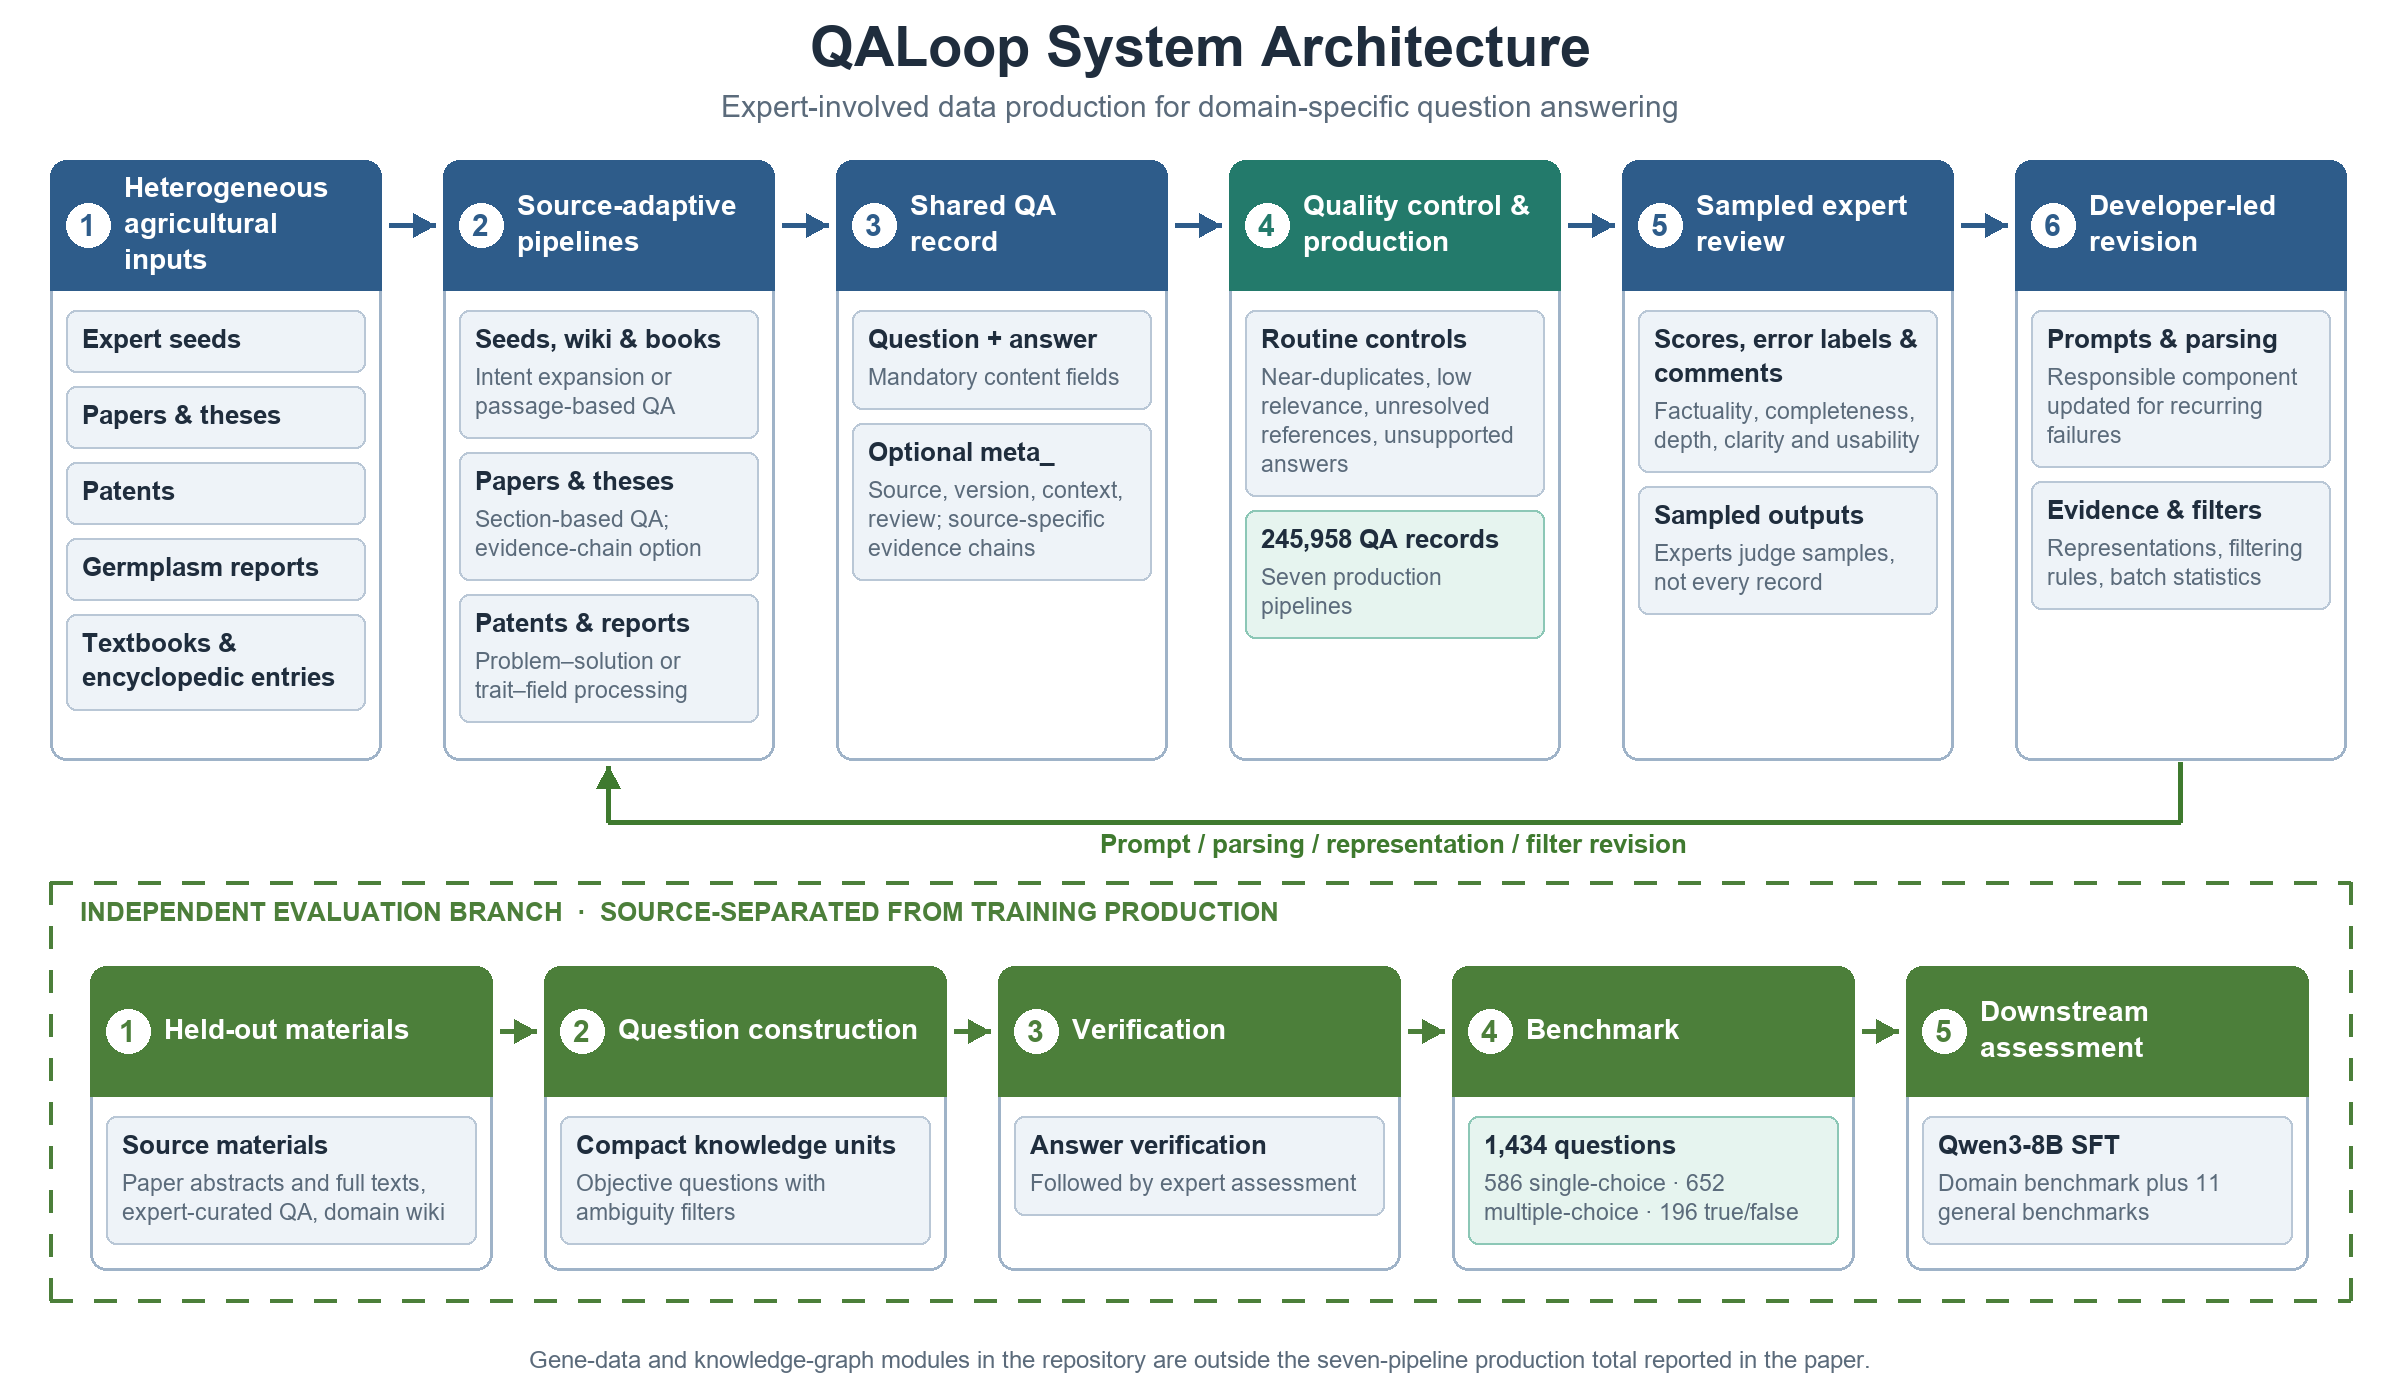
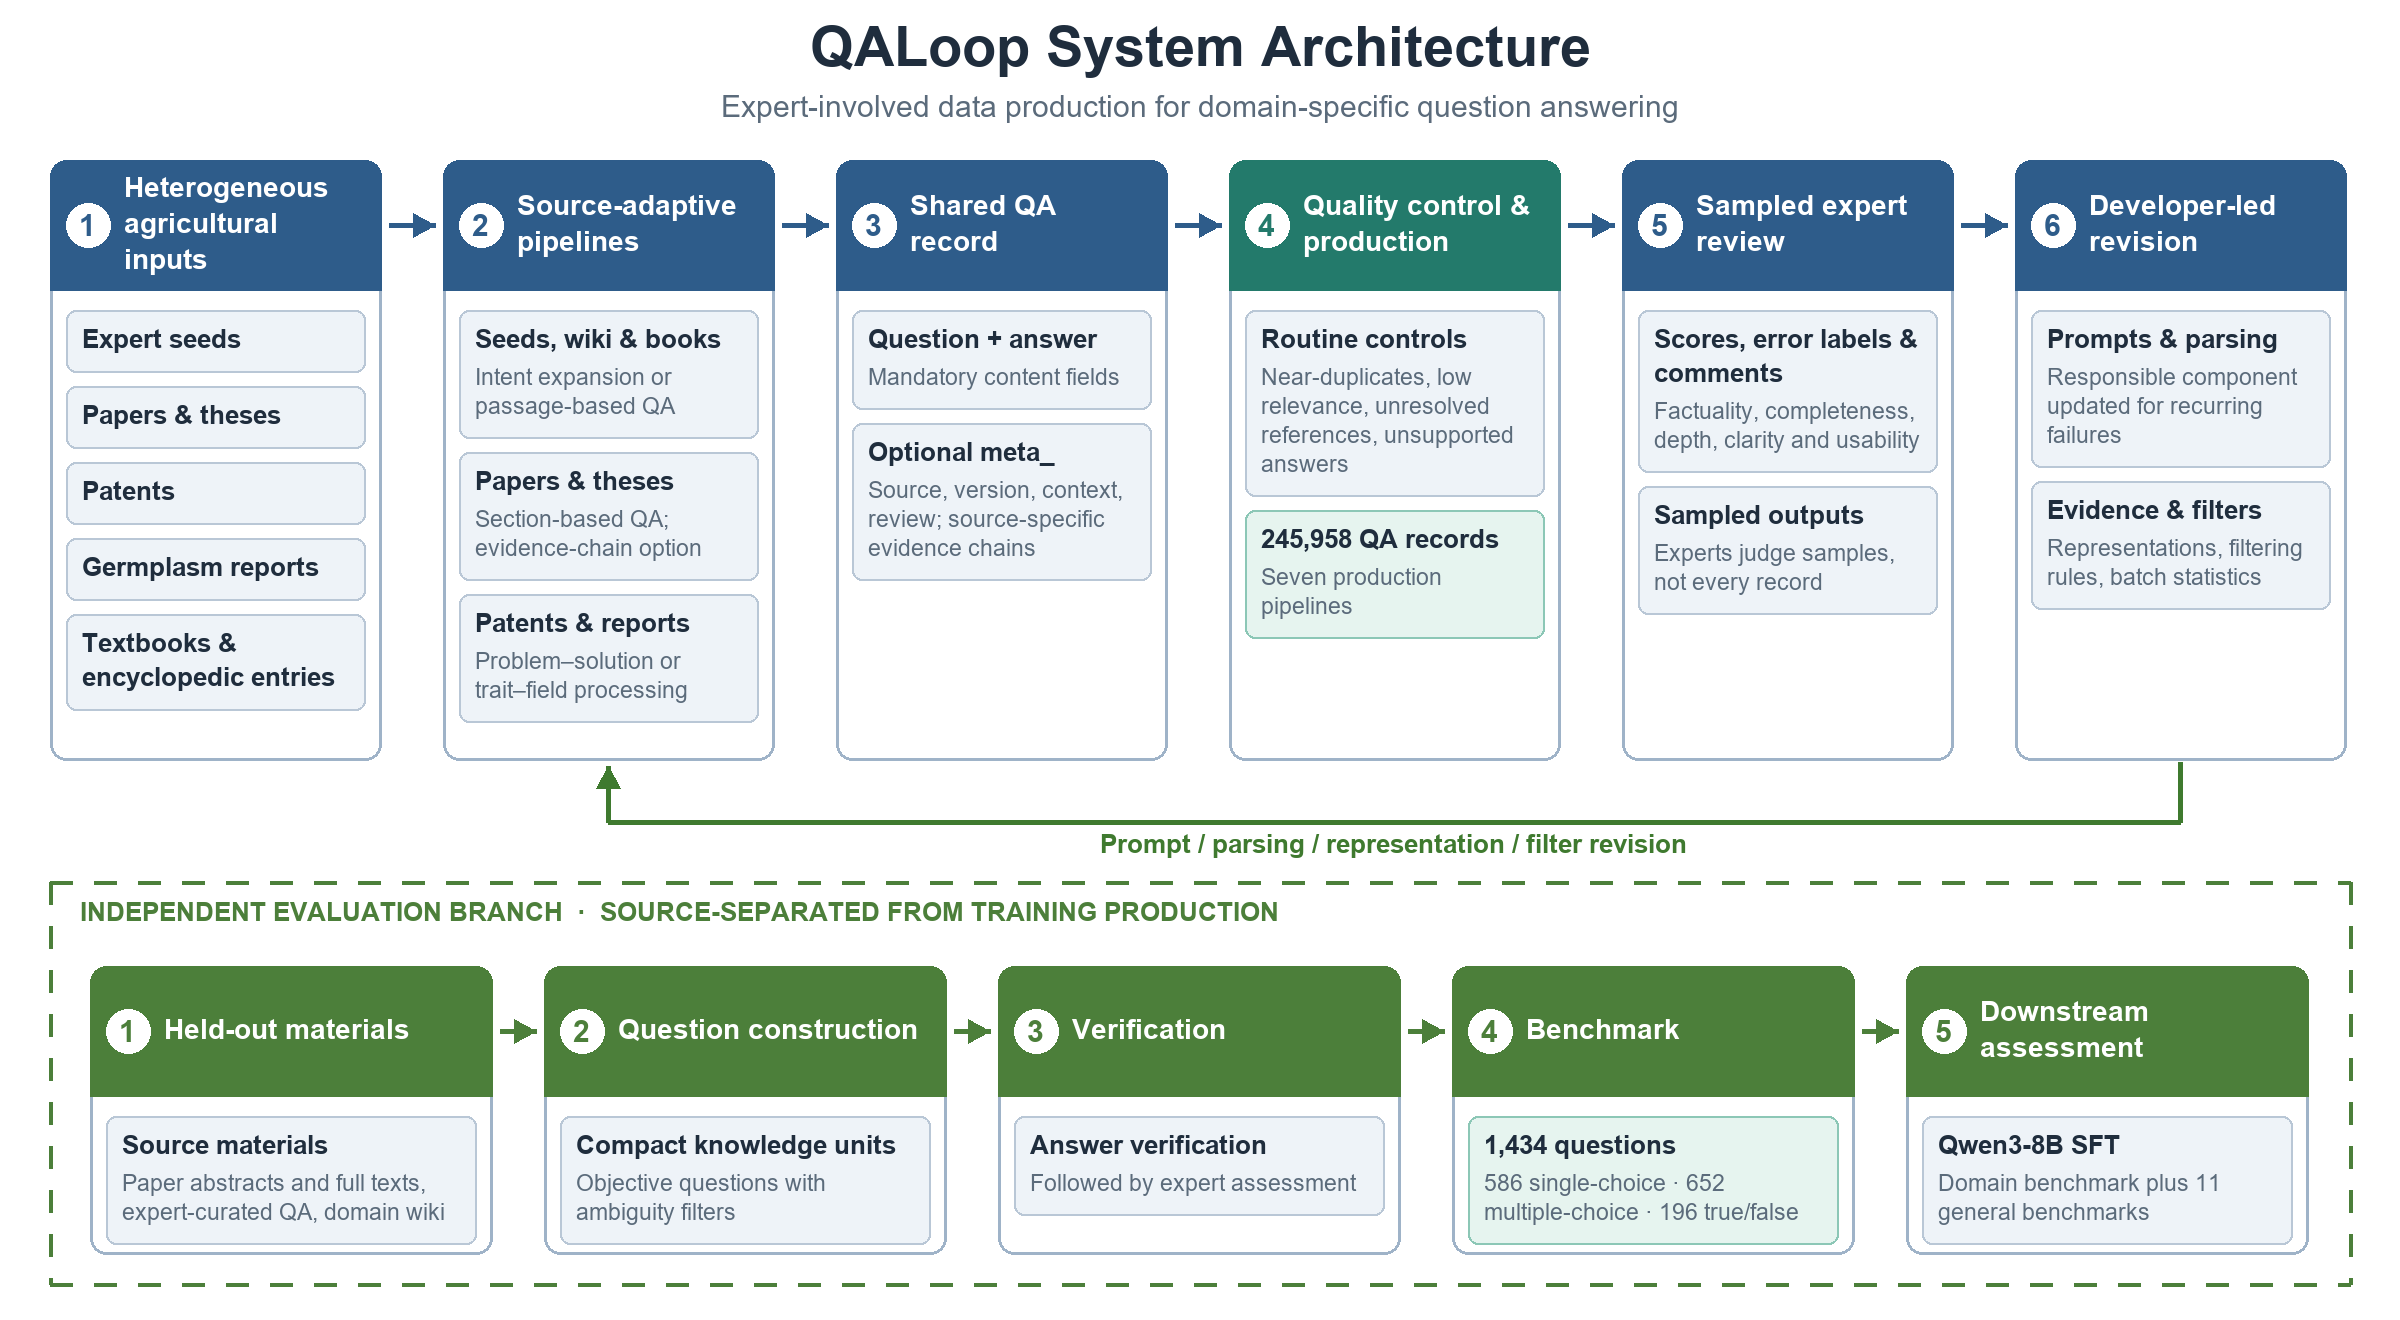
Align the README pipeline list with the seven production pipelines in the paper.

Changed region(s): [[0.0312, 0.0311, 0.9688, 0.9939], [0.0, 0.0932, 0.1562, 0.5591], [0.8125, 0.0932, 0.9688, 0.4659]]

diff --git a/pipelines/README.md b/pipelines/README.md
@@ -1,6 +1,6 @@
 # Agricultural Knowledge QA Pair Generation System
 
-Source-adaptive QA synthesis pipelines in [QALoop](https://github.com/JackKuo666/QALoop), the code release for the DASFAA 2027 Industry Track submission on expert-involved domain QA data production. This directory contains independent pipelines that generate question-answer (QA) pairs from heterogeneous agricultural sources (papers, patents, books, knowledge graphs, Wikipedia, germplasm reports, gene records, expert questions, and others) for LLM SFT training. The submitted paper reports seven production pipelines; the gene-data and knowledge-graph pipelines here are outside that total.
+Source-adaptive QA synthesis pipelines in [QALoop](https://github.com/JackKuo666/QALoop), the code release for the DASFAA 2027 Industry Track submission on expert-involved domain QA data production. The paper reports seven production pipelines. Expert seeds are implemented here as `expert_qa_augmentation` and `expertq_generatea`. Full-text papers, theses, wiki, books, germplasm reports, and patents correspond to `paper_synthesis`, `thesis_synthesis`, `wiki_synthesis`, `books_qa_generater`, `seedreport_synthesis`, and `patent_synthesis`. `gene_synthesis` and `kg_synthesis` are extensions. `qa_data_acquisition_quality` checks existing QA records and is not a production pipeline.
 
 ---
 
@@ -26,19 +26,19 @@ Source-adaptive QA synthesis pipelines in [QALoop](https://github.com/JackKuo666
 
 ## Quick Overview
 
-| # | Pipeline | Data Source | Key Innovation | Output |
-|---|----------|-------------|----------------|--------|
-| 1 | [expert_qa_augmentation](#1-expert_qa_augmentation) | Seed questions | 20+ generation strategies, intelligent RAG retrieval | JSONL |
-| 2 | [expertq_generatea](#2-expertq_generatea) | Seed questions | 31+ model support, Thinking mode | JSONL |
-| 3 | [gene_synthesis](#3-gene_synthesis) | Gene literature | Evidence anchoring, multi-hop reasoning protocol | JSONL |
-| 4 | [kg_synthesis](#4-kg_synthesis) | Knowledge graph | TopK whitelist, P3 random path fallback | JSON/JSONL |
-| 5 | [paper_synthesis](#5-paper_synthesis) | Academic papers | Two-stage reasoning chain, intelligent ratio control | JSONL |
-| 6 | [patent_synthesis](#6-patent_synthesis) | Patents | Evaluate-feedback-retrieve-generate loop | JSONL |
-| 7 | [thesis_synthesis](#7-thesis_synthesis) | Theses | Multi-format chapter splitting, objective question generation | JSONL |
-| 8 | [wiki_synthesis](#8-wiki_synthesis) | Wikipedia | BioBERT + Qwen two-stage filtering | JSONL |
-| 9 | [books_qa_generater](#9-books_qa_generater) | Books | TOC-aware chapter splitting, hierarchical quality control | JSONL |
-| 10 | [qa_data_acquisition_quality](#10-qa_data_acquisition_quality) | QA data | LLM generative evaluation | JSONL |
-| 11 | [seedreport_synthesis](#11-seedreport_synthesis) | Germplasm reports | 8 user intent categories, zero-anaphora QA | JSONL |
+| # | Pipeline | In the paper | Data Source | Key Innovation | Output |
+|---|----------|-------------|----------------|----------------|--------|
+| 1 | [expert_qa_augmentation](#1-expert_qa_augmentation) | Expert seeds | Seed questions | 20+ generation strategies, intelligent RAG retrieval | JSONL |
+| 2 | [expertq_generatea](#2-expertq_generatea) | Expert seeds | Seed questions | 31+ model support, Thinking mode | JSONL |
+| 3 | [gene_synthesis](#3-gene_synthesis) | Extension | Gene literature | Evidence anchoring, multi-hop reasoning protocol | JSONL |
+| 4 | [kg_synthesis](#4-kg_synthesis) | Extension | Knowledge graph | TopK whitelist, P3 random path fallback | JSON/JSONL |
+| 5 | [paper_synthesis](#5-paper_synthesis) | Full-text papers | Academic papers | Two-stage reasoning chain, intelligent ratio control | JSONL |
+| 6 | [patent_synthesis](#6-patent_synthesis) | Patents | Patents | Evaluate-feedback-retrieve-generate loop | JSONL |
+| 7 | [thesis_synthesis](#7-thesis_synthesis) | Theses | Theses | Multi-format chapter splitting, objective question generation | JSONL |
+| 8 | [wiki_synthesis](#8-wiki_synthesis) | Wiki | Wikipedia | BioBERT + Qwen two-stage filtering | JSONL |
+| 9 | [books_qa_generater](#9-books_qa_generater) | Books | Books | TOC-aware chapter splitting, hierarchical quality control | JSONL |
+| 10 | [qa_data_acquisition_quality](#10-qa_data_acquisition_quality) | Quality check | QA data | LLM generative evaluation | JSONL |
+| 11 | [seedreport_synthesis](#11-seedreport_synthesis) | Germplasm reports | Germplasm reports | 8 user intent categories, zero-anaphora QA | JSONL |
 
 ---
 

diff --git a/pipelines/README_zh.md b/pipelines/README_zh.md
@@ -1,6 +1,6 @@
 # 农业知识问答对生成系统
 
-[QALoop](https://github.com/JackKuo666/QALoop) 的**源适配 QA 合成管道**集合，对应 DASFAA 2027 Industry Track 投稿中的专家参与领域问答数据生产系统。本目录包含多条独立管道，从异构农业数据源（论文、专利、图书、知识图谱、维基百科、种质报告、基因文献、专家问题等）生成问答对，用于大模型 SFT 训练。投稿论文报告 7 条生产管道；这里的基因数据和知识图谱管道不计入该总数。
+[QALoop](https://github.com/JackKuo666/QALoop) 的**源适配 QA 合成管道**，对应 DASFAA 2027 Industry Track 投稿。论文报告七条生产管道。专家种子由 `expert_qa_augmentation` 和 `expertq_generatea` 实现；全文论文、学位论文、维基百科、图书、种质报告和专利分别对应 `paper_synthesis`、`thesis_synthesis`、`wiki_synthesis`、`books_qa_generater`、`seedreport_synthesis` 和 `patent_synthesis`。`gene_synthesis` 和 `kg_synthesis` 是扩展。`qa_data_acquisition_quality` 对已有问答做质检，不是生产管道。
 
 ---
 
@@ -26,19 +26,19 @@
 
 ## 快速概览
 
-| # | 管道 | 数据源 | 核心创新 | 输出 |
-|---|------|--------|---------|------|
-| 1 | [expert_qa_augmentation](#1-expert_qa_augmentation) | 种子问题 | 20+生成策略、智能RAG检索 | JSONL |
-| 2 | [expertq_generatea](#2-expertq_generatea) | 种子问题 | 31+模型支持、Thinking模式 | JSONL |
-| 3 | [gene_synthesis](#3-gene_synthesis) | 基因文献 | 证据锚定、多跳推理协议 | JSONL |
-| 4 | [kg_synthesis](#4-kg_synthesis) | 知识图谱 | TopK白名单、P3随机路径回退 | JSON/JSONL |
-| 5 | [paper_synthesis](#5-paper_synthesis) | 学术论文 | 两阶段推理链、智能比例控制 | JSONL |
-| 6 | [patent_synthesis](#6-patent_synthesis) | 专利 | 评测-反馈-检索-生成闭环 | JSONL |
-| 7 | [thesis_synthesis](#7-thesis_synthesis) | 学位论文 | 多格式章节分割、客观题生成 | JSONL |
-| 8 | [wiki_synthesis](#8-wiki_synthesis) | Wikipedia | BioBERT+Qwen两阶段筛选 | JSONL |
-| 9 | [books_qa_generater](#9-books_qa_generater) | 图书 | 目录感知章节拆分、层次化质量控制 | JSONL |
-| 10 | [qa_data_acquisition_quality](#10-qa_data_acquisition_quality) | QA数据 | LLM生成式评估 | JSONL |
-| 11 | [seedreport_synthesis](#11-seedreport_synthesis) | 种质报告 | 8大用户意图体系、零指代问答 | JSONL |
+| # | 管道 | 论文中 | 数据源 | 核心创新 | 输出 |
+|---|------|--------|--------|---------|------|
+| 1 | [expert_qa_augmentation](#1-expert_qa_augmentation) | 专家种子 | 种子问题 | 20+生成策略、智能RAG检索 | JSONL |
+| 2 | [expertq_generatea](#2-expertq_generatea) | 专家种子 | 种子问题 | 31+模型支持、Thinking模式 | JSONL |
+| 3 | [gene_synthesis](#3-gene_synthesis) | 扩展 | 基因文献 | 证据锚定、多跳推理协议 | JSONL |
+| 4 | [kg_synthesis](#4-kg_synthesis) | 扩展 | 知识图谱 | TopK白名单、P3随机路径回退 | JSON/JSONL |
+| 5 | [paper_synthesis](#5-paper_synthesis) | 全文论文 | 学术论文 | 两阶段推理链、智能比例控制 | JSONL |
+| 6 | [patent_synthesis](#6-patent_synthesis) | 专利 | 专利 | 评测-反馈-检索-生成闭环 | JSONL |
+| 7 | [thesis_synthesis](#7-thesis_synthesis) | 学位论文 | 学位论文 | 多格式章节分割、客观题生成 | JSONL |
+| 8 | [wiki_synthesis](#8-wiki_synthesis) | 维基百科 | Wikipedia | BioBERT+Qwen两阶段筛选 | JSONL |
+| 9 | [books_qa_generater](#9-books_qa_generater) | 图书 | 图书 | 目录感知章节拆分、层次化质量控制 | JSONL |
+| 10 | [qa_data_acquisition_quality](#10-qa_data_acquisition_quality) | 质检 | QA数据 | LLM生成式评估 | JSONL |
+| 11 | [seedreport_synthesis](#11-seedreport_synthesis) | 种质报告 | 种质报告 | 8大用户意图体系、零指代问答 | JSONL |
 
 ---
 

diff --git a/README.md b/README.md
@@ -32,9 +32,9 @@ See [platform/README.md](platform/README.md) for details.
 
 ### pipelines/ — QA Generation Pipelines
 
-A collection of standalone QA data generation pipelines. Each pipeline generates QA pairs from a specific data source. Each pipeline directory contains its own README, examples, and documentation.
+Code for the seven production pipelines in the paper, plus two extensions and a quality check. Each directory contains its own README, examples, and documentation.
 
-See [pipelines/README.md](pipelines/README.md) for details.
+See [pipelines/README.md](pipelines/README.md) for which directory corresponds to which pipeline.
 
 ## What's Released
 
@@ -43,7 +43,7 @@ This repository focuses on **reusable framework code**, not unrestricted release
 | Included | Description |
 |----------|-------------|
 | `platform/` | Expert validation & annotation platform (FastAPI) |
-| `pipelines/` | Source-adaptive QA synthesis pipelines with minimal runnable examples. The paper reports seven production pipelines; gene-data and knowledge-graph pipelines in this repository are outside that total. |
+| `pipelines/` | Source-adaptive QA synthesis pipelines with minimal runnable examples. |
 | Documentation | READMEs, configuration guides, and deployment instructions |
 
 Production-scale datasets and the full independent benchmark from the paper are **not** included in this release. See the paper for data availability details.
